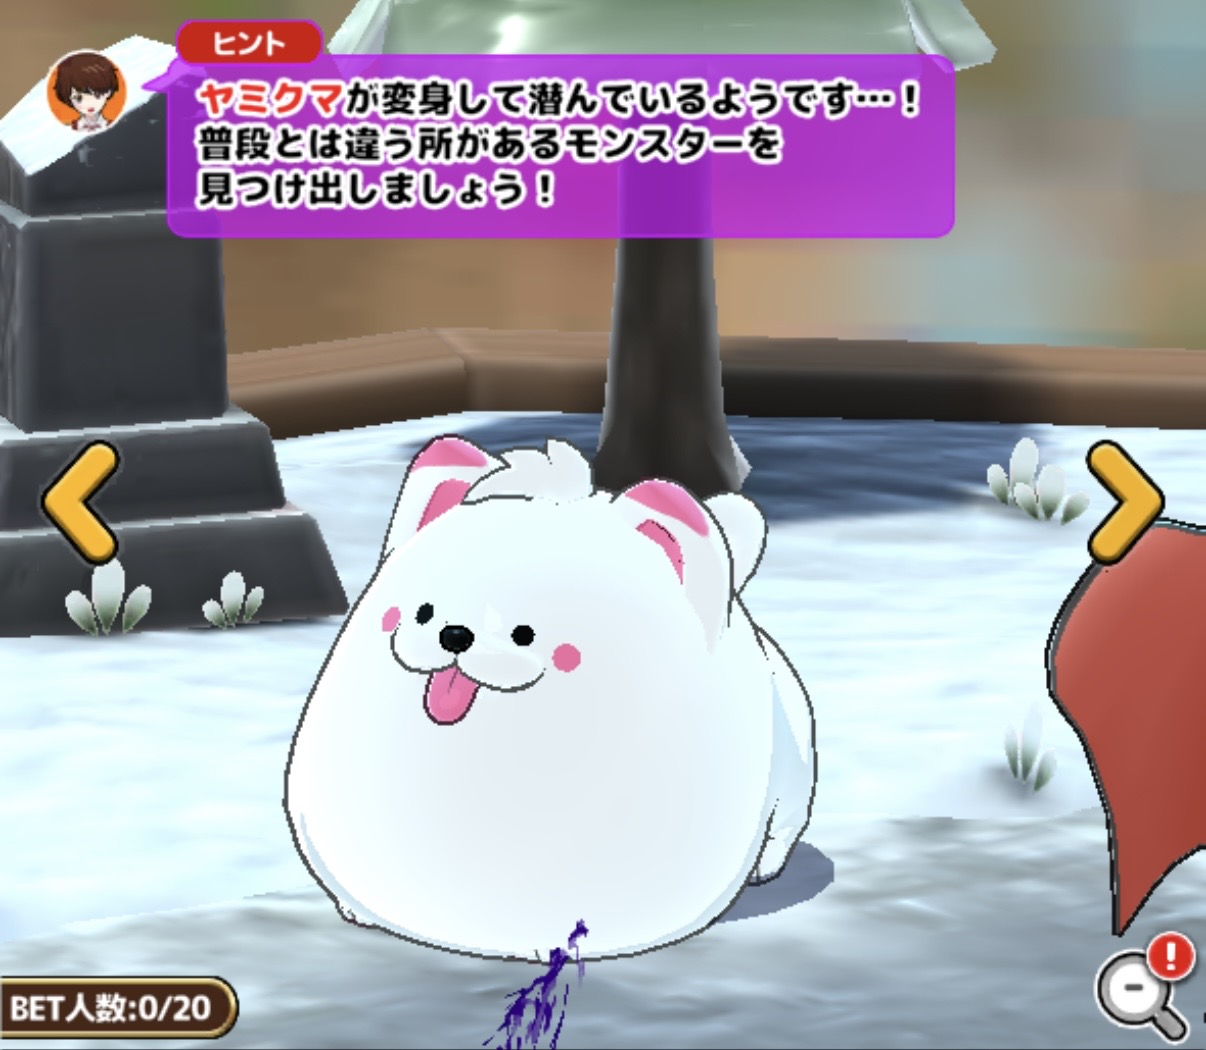
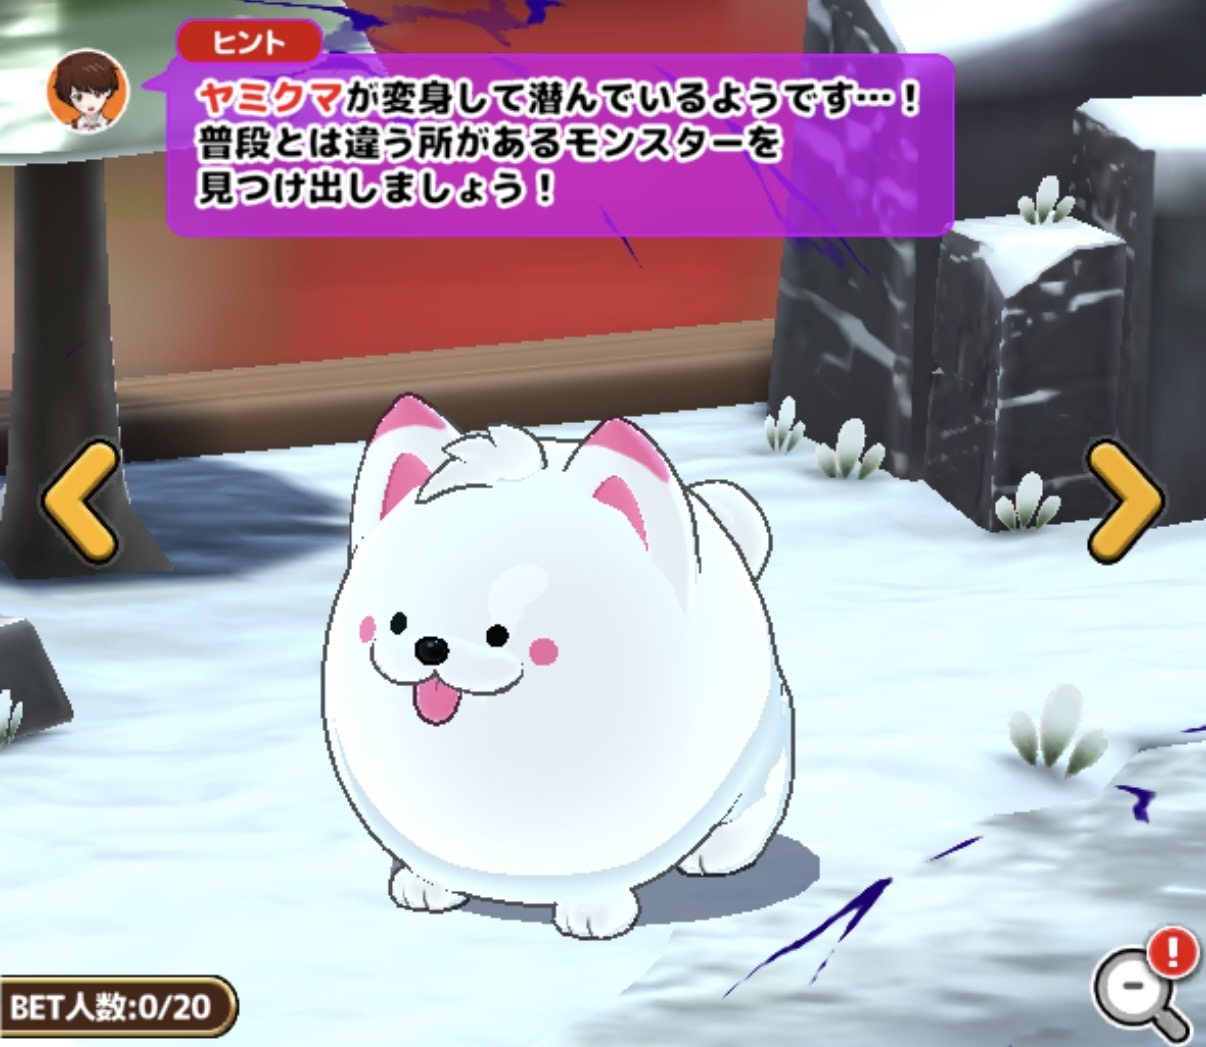
情報更新

diff --git a/index.html b/index.html
@@ -37,7 +37,7 @@
   <link rel="preconnect" href="https://fonts.googleapis.com">
   <link rel="preconnect" href="https://fonts.gstatic.com" crossorigin>
   <link href="https://fonts.googleapis.com/css2?family=Dela+Gothic+One&family=Zen+Antique&family=Noto+Sans+JP:wght@400;500;700;900&display=swap" rel="stylesheet">
-  <link rel="stylesheet" href="style.css?v=0.5.1">
+  <link rel="stylesheet" href="style.css?v=0.5.2">
 </head>
 <body>
 
@@ -215,8 +215,8 @@
     </svg>
   </div>
 
-  <script src="data-normal.js?v=0.5.1" defer></script>
-  <script src="data-anomaly.js?v=0.5.1" defer></script>
-  <script src="script.js?v=0.5.1" defer></script>
+  <script src="data-normal.js?v=0.5.2" defer></script>
+  <script src="data-anomaly.js?v=0.5.2" defer></script>
+  <script src="script.js?v=0.5.2" defer></script>
 </body>
 </html>

diff --git a/data-anomaly.js b/data-anomaly.js
@@ -243,6 +243,11 @@ const ANOMALY_DATA = {
       compareIndex: 1
     },
     {
+      note: "ボム",
+      point: "頭の上のボムがない。",
+      compareIndex: 1
+    },
+    {
       note: "耳",
       point: "プルドッグの耳がぺしゃんこになっている。",
       compareIndex: 1
